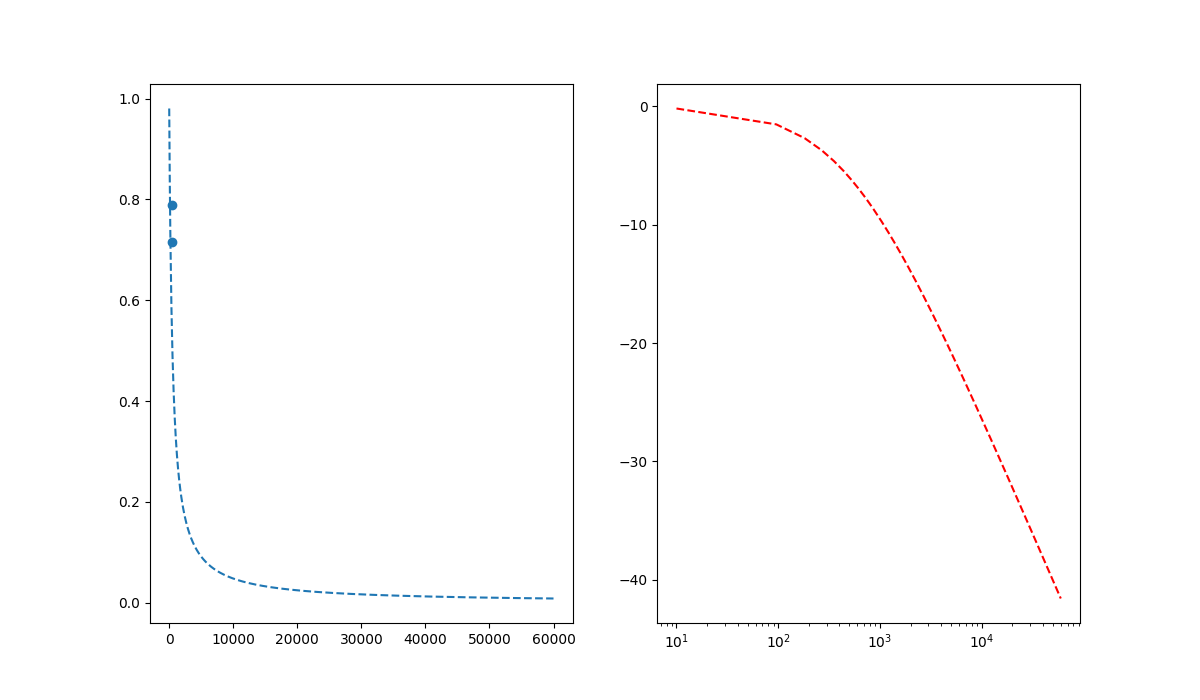
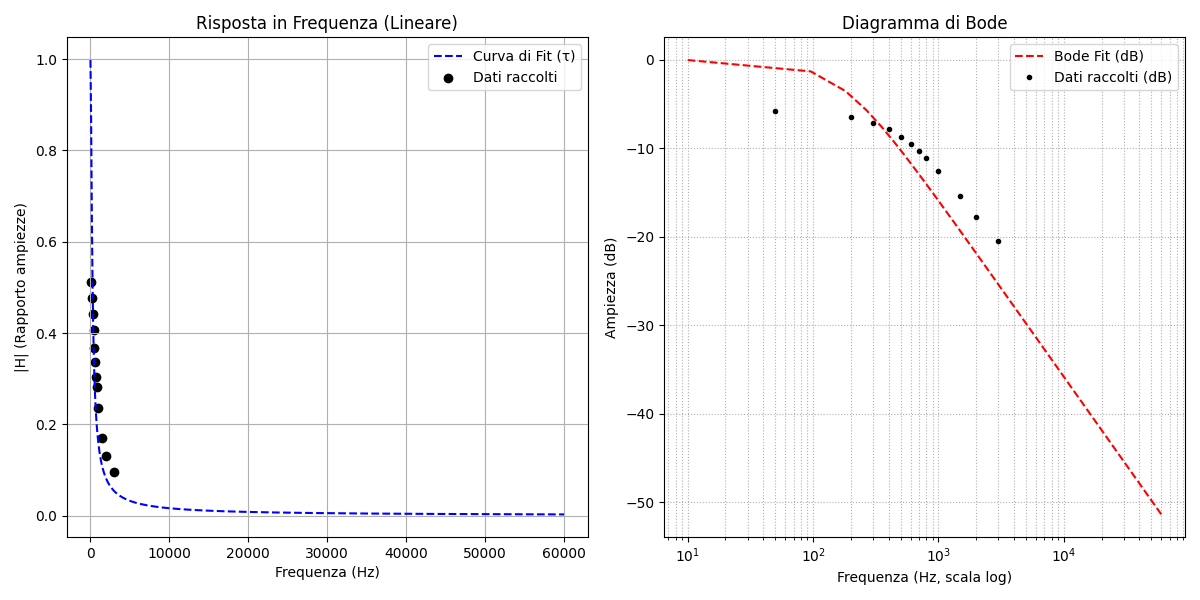
grafici

diff --git a/H_cb.py b/H_cb.py
@@ -2,6 +2,7 @@ import numpy as np
 import matplotlib.pyplot as plt 
 from pathlib import Path
 import pandas as pd 
+from iminuit import Minuit
 current_dir = Path(__file__).parent
 pi = np.pi
 
@@ -17,6 +18,8 @@ C,sigma_C = 68*1e-9,1*1e-9
 
 tau = R*C 
 sigma_tau = np.sqrt((R*sigma_C)**2+(C*sigma_R)**2)
+#errore slle tensioni 
+sigma_v = 20*np.sqrt(2)*1e-3
 
 #funzione per calcolare la differenza di fase 
 def d_fase (f,dt): 
@@ -27,27 +30,81 @@ dt1 = df["tch1"]-df["tch2"]
 
 #dt2 = t_math - tA  (MISURE IN mus)
 dt2 = df["tmath"]-df["tch1"]
-
+#frequeze 
 freq = df["f"]
+
+
+
 def H_abb_C (tau,f): 
-    return 1/(1+tau*2*pi*f)
+    return 1/np.sqrt(1+(tau*2*pi*f)**2)
 
 def min_quad(f,val,var):
-    return None
+    return (f-val)**2/var
+
+# calcolo per il transitorio ai capi del condensatore H_abb
+H_moduli = df["math"]/df["ch1"]
+#errore sul transitorio 
+sigma_H = sigma_v * np.sqrt((1/(df["ch1"])**2)+(H_moduli/df["ch1"])**2)
+
+
+def cost_func(tau): 
+    f = H_abb_C(tau,freq)
+    Q = min_quad(f,H_moduli,sigma_H)
+    return np.sum(Q) 
+
+M = Minuit(cost_func,tau = 3e-6)
+M.migrad()
+M.hesse()
+
+tau_s = M.values["tau"]  
+sigma_tau_s = M.errors["tau"]
 
 
 
-fig,ax =plt.subplots(1,2,figsize = (12,7)) 
-fs = np.linspace(10,60000,700)
-H_modulo = H_abb_C(tau,fs)
+print(f"Risultato Fit: \u03c4 = {tau_s:.3e} \u00b1 {sigma_tau_s:.3e} s")
 
-H_moduli = df["math"]/df["ch1"] 
-ax[0].plot(fs,H_modulo,linestyle = "--")
-ax[0].scatter(freq,H_moduli,label = "plot dati raccolti")
 
-H_dB = 20 * np.log10(H_modulo)
+# --- PARTE GRAFICA ---
+fig, ax = plt.subplots(1, 2, figsize=(12, 6))
 
-# Usiamo semilogx così l'asse delle frequenze diventa logaritmico (10, 100, 1000...)
-ax[1].semilogx(fs, H_dB, linestyle="--", color="red", label="Bode (dB)")
+# Generiamo i punti per la curva continua del fit
+fs = np.linspace(10, 60000, 700)
+H_modulo_fit = H_abb_C(tau_s, fs)
+H_moduli_dati= H_moduli
+
+# --- Grafico 1: Scala Lineare ---
+ax[0].plot(
+    fs, H_modulo_fit, linestyle="--", color="blue", label="Curva di Fit (\u03c4)"
+)
+ax[0].scatter(
+    freq, H_moduli_dati, color="black", marker="o", label="Dati raccolti"
+)
+ax[0].set_xlabel("Frequenza (Hz)")
+ax[0].set_ylabel("|H| (Rapporto ampiezze)")
+ax[0].set_title("Risposta in Frequenza (Lineare)")
+ax[0].grid(True)
+ax[0].legend()
+
+# --- Grafico 2: Diagramma di Bode (Scala Logaritmica) ---
+H_dB_fit = 20 * np.log10(H_modulo_fit)
+H_dB_dati = 20 * np.log10(H_moduli_dati)  # Nuova variabile per non sovrascrivere
+
+ax[1].semilogx(fs, H_dB_fit, linestyle="--", color="red", label="Bode Fit (dB)")
+ax[1].semilogx(
+    freq,
+    H_dB_dati,
+    linestyle="",
+    marker=".",
+    color="black",
+    label="Dati raccolti (dB)",
+)
+ax[1].set_xlabel("Frequenza (Hz, scala log)")
+ax[1].set_ylabel("Ampiezza (dB)")
+ax[1].set_title("Diagramma di Bode")
+ax[1].grid(True, which="both", linestyle=":")  # Griglia logaritmica fitta
+ax[1].legend()
+
+plt.tight_layout()
+plt.show()
 plt.savefig(graph_pathHabb)
 